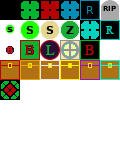
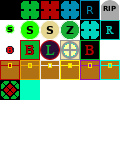
Players Spawn And Respawn on Spawn Tile

Changed region(s): [[0.15, 0.5, 0.35, 0.625]]

diff --git a/src/gameEngine.js b/src/gameEngine.js
@@ -3,6 +3,7 @@ const Player = require("./GameEntities/PlayerCharacter.js");
 const Wall = require("./GameEntities/Wall.js");
 const Enemy = require("./GameEntities/Enemy.js");
 const Zombie = require("./GameEntities/Enemies/Zombie.js");
+const Floor = require("./GameEntities/FloorTile.js");
 const fs = require('fs');
 const gridSize = 40;
 module.exports = class GameEngine{
@@ -13,7 +14,10 @@ module.exports = class GameEngine{
     this.walls = [];
     this.collisionEngine = new CollisionEngine(120*gridSize, 120*gridSize);
     this.gameEntities = [];
-    this.generateMap();
+    this.spawnLocations = [];
+    this.collisionEngine.spawnLocations = this.spawnLocations;
+    //this.generateMap();
+    this.generateLevel001();
   }
   gameLoop(){
     this.players.forEach(element => {
@@ -21,15 +25,15 @@ module.exports = class GameEngine{
     });
   }
   addPlayer(){
+    var targetSpawnTile = this.spawnLocations[0];
     var newPlayer = new Player(
-      39*gridSize,
-      7*gridSize,
+      targetSpawnTile.location.x,
+      targetSpawnTile.location.y,
       gridSize,
       this.collisionEngine,
       this.gameEntities
     );
     newPlayer.uniquePlayerID = this.uniquePlayerID;
-    console.log(this.uniquePlayerID);
     this.players.push(newPlayer);
     this.uniquePlayerID++;
     this.collisionEngine.addObject(newPlayer)
@@ -137,6 +141,16 @@ module.exports = class GameEngine{
           this.walls.push(entityToBeAdded);
           this.collisionEngine.addObject(entityToBeAdded);
           break;
+        case "25":
+          entityToBeAdded = new Floor(
+            mapInformation[index][2] * gridSize,
+            mapInformation[index][1] * gridSize,
+            gridSize,
+            this.collisionEngine,
+            this.gameEntities);
+          this.collisionEngine.addObject(entityToBeAdded);
+          this.spawnLocations.push(entityToBeAdded);
+          break;
         case "9":
           entityToBeAdded = new Enemy(
             mapInformation[index][2] * gridSize,
@@ -145,6 +159,7 @@ module.exports = class GameEngine{
             this.collisionEngine,
             this.gameEntities);
           this.collisionEngine.addObject(entityToBeAdded);
+          break;
       }
       addedEntities++;
     }

diff --git a/src/CollisionEngine.js b/src/CollisionEngine.js
@@ -3,6 +3,7 @@ const Player = require("./GameEntities/PlayerCharacter.js");
 const Wall = require("./GameEntities/Wall.js");
 const Enemy = require("./GameEntities/Enemy.js");
 const Projectile = require("./GameEntities/Projectile.js");
+const Floor = require("./GameEntities/FloorTile.js")
 
 const quadrentSize = 10;
 const gridSize = 40;
@@ -13,6 +14,7 @@ module.exports = class CollisionEngine {
     this.collsionObjects = [];
     this.connectedPlayers = [];
     this.quadrents = [];
+    this.spawnLocations = [];
     //Creates the Quadrents
     for(var x = 0; x < Math.ceil(xSize / quadrentSize / gridSize); x++){
       var quadrentRows = [];
@@ -179,8 +181,8 @@ module.exports = class CollisionEngine {
     return false;
   }
   resetPlayerToSpawn(player){
-    player.location.x = 7 * gridSize;
-    player.location.y = 37 * gridSize;
+    player.location.x = this.spawnLocations[0].location.x;
+    player.location.y = this.spawnLocations[0].location.y;
     player.quadrent.removeEntity(player);
     this.assignObjectToQuadrent(player);
   }
@@ -202,6 +204,7 @@ class collisionQuadrentContainer{
     this.containedPlayers = [];
     this.containedEnemies = [];
     this.containedProjectiles = [];
+    this.containedFloor = [];
     this.corner1 = corner1;
     this.corner2 = corner2;
     this.parentCollisionEngine = parentCollisionEngine;
@@ -622,6 +625,11 @@ class collisionQuadrentContainer{
     }
     if(EntityToAdd instanceof Wall){
       this.containedWalls.push(EntityToAdd);
+      return;
+    }
+    if(EntityToAdd instanceof Floor){
+      console.log("I added a floor Tiles");
+      this.containedFloor.push(EntityToAdd);
       return;
     }
     console.log("New Type of entity");

diff --git a/src/GameEntities/FloorTile.js b/src/GameEntities/FloorTile.js
@@ -1,0 +1,20 @@
+const gameEntity = require("../gameEntity.js");
+
+module.exports = class FloorTile extends gameEntity {
+  constructor(
+    xPosition,
+    yPosition,
+    size,
+    parentCollisionEngine,
+    objectsToDrawArray
+    ){
+      super(
+        xPosition,
+        yPosition,
+        size,
+        parentCollisionEngine,
+        objectsToDrawArray
+      );
+      console.log("I got created!");
+    }
+}
